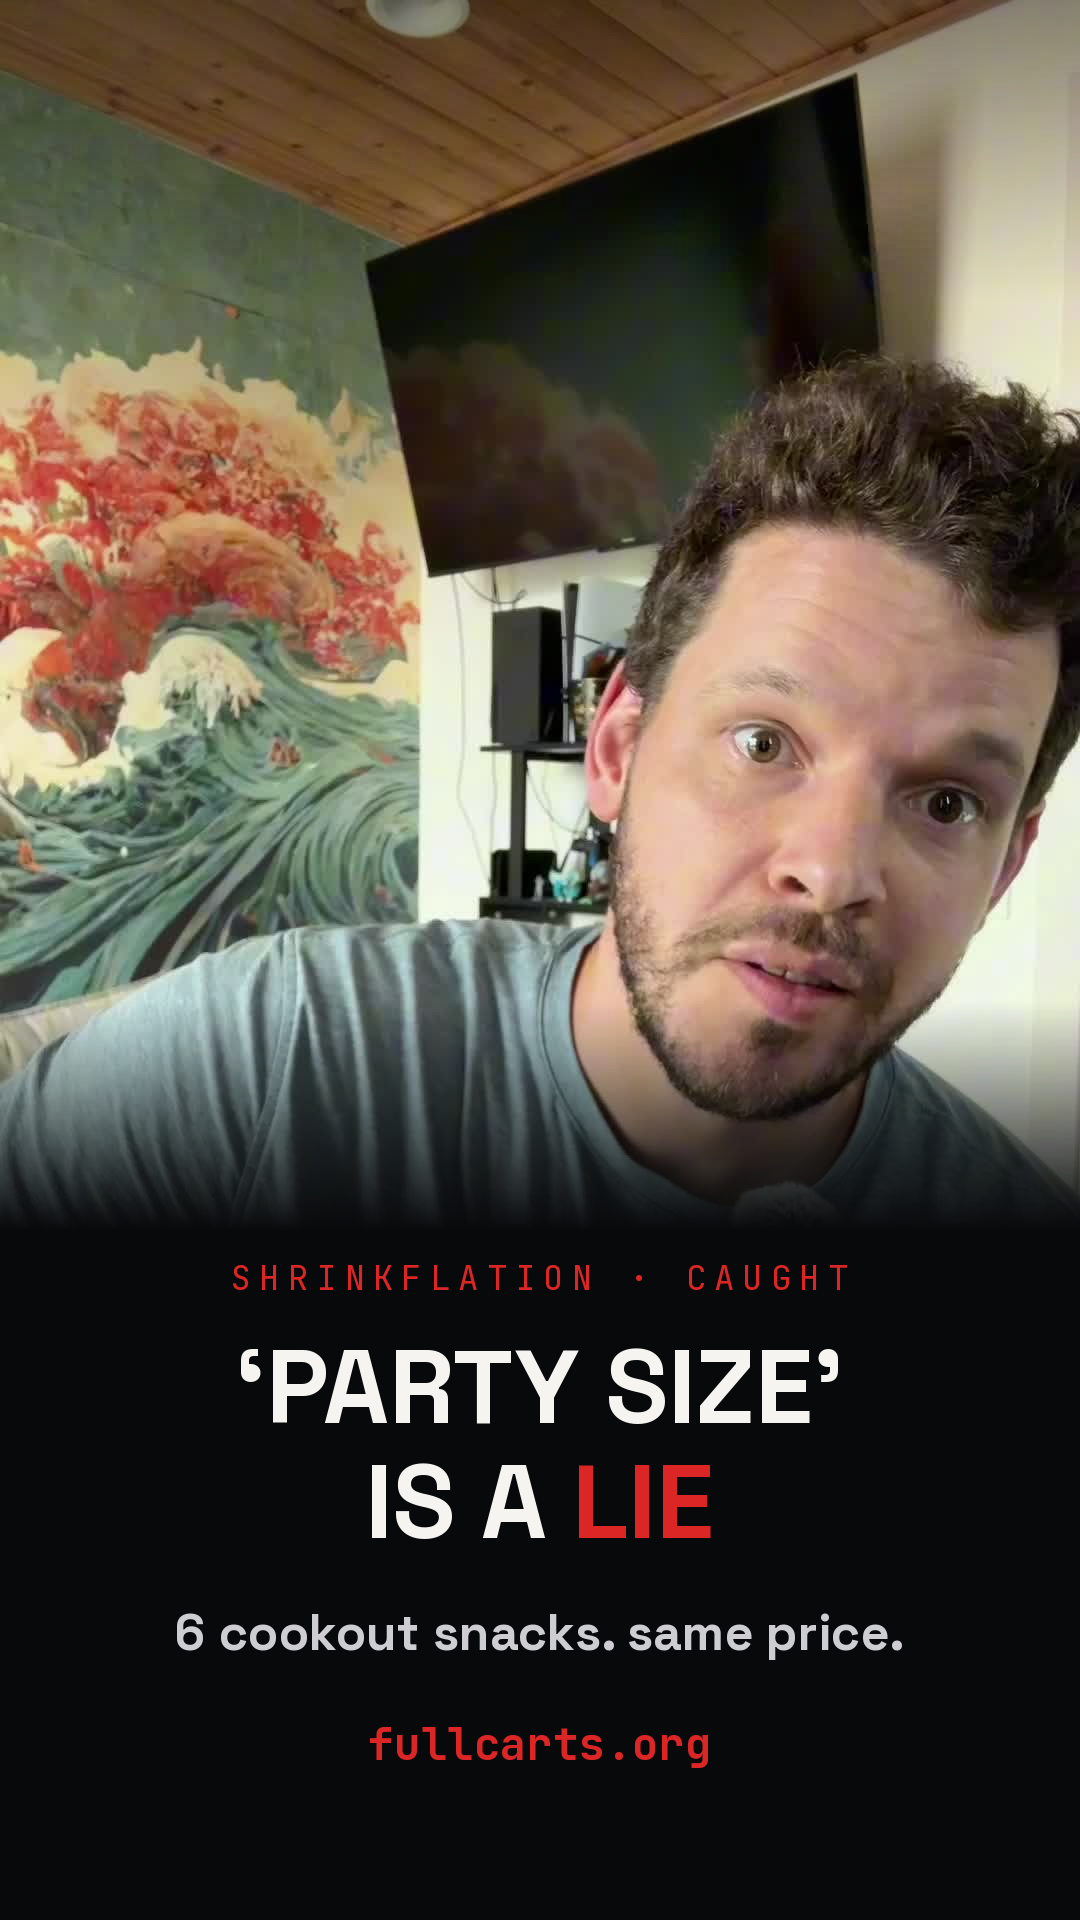
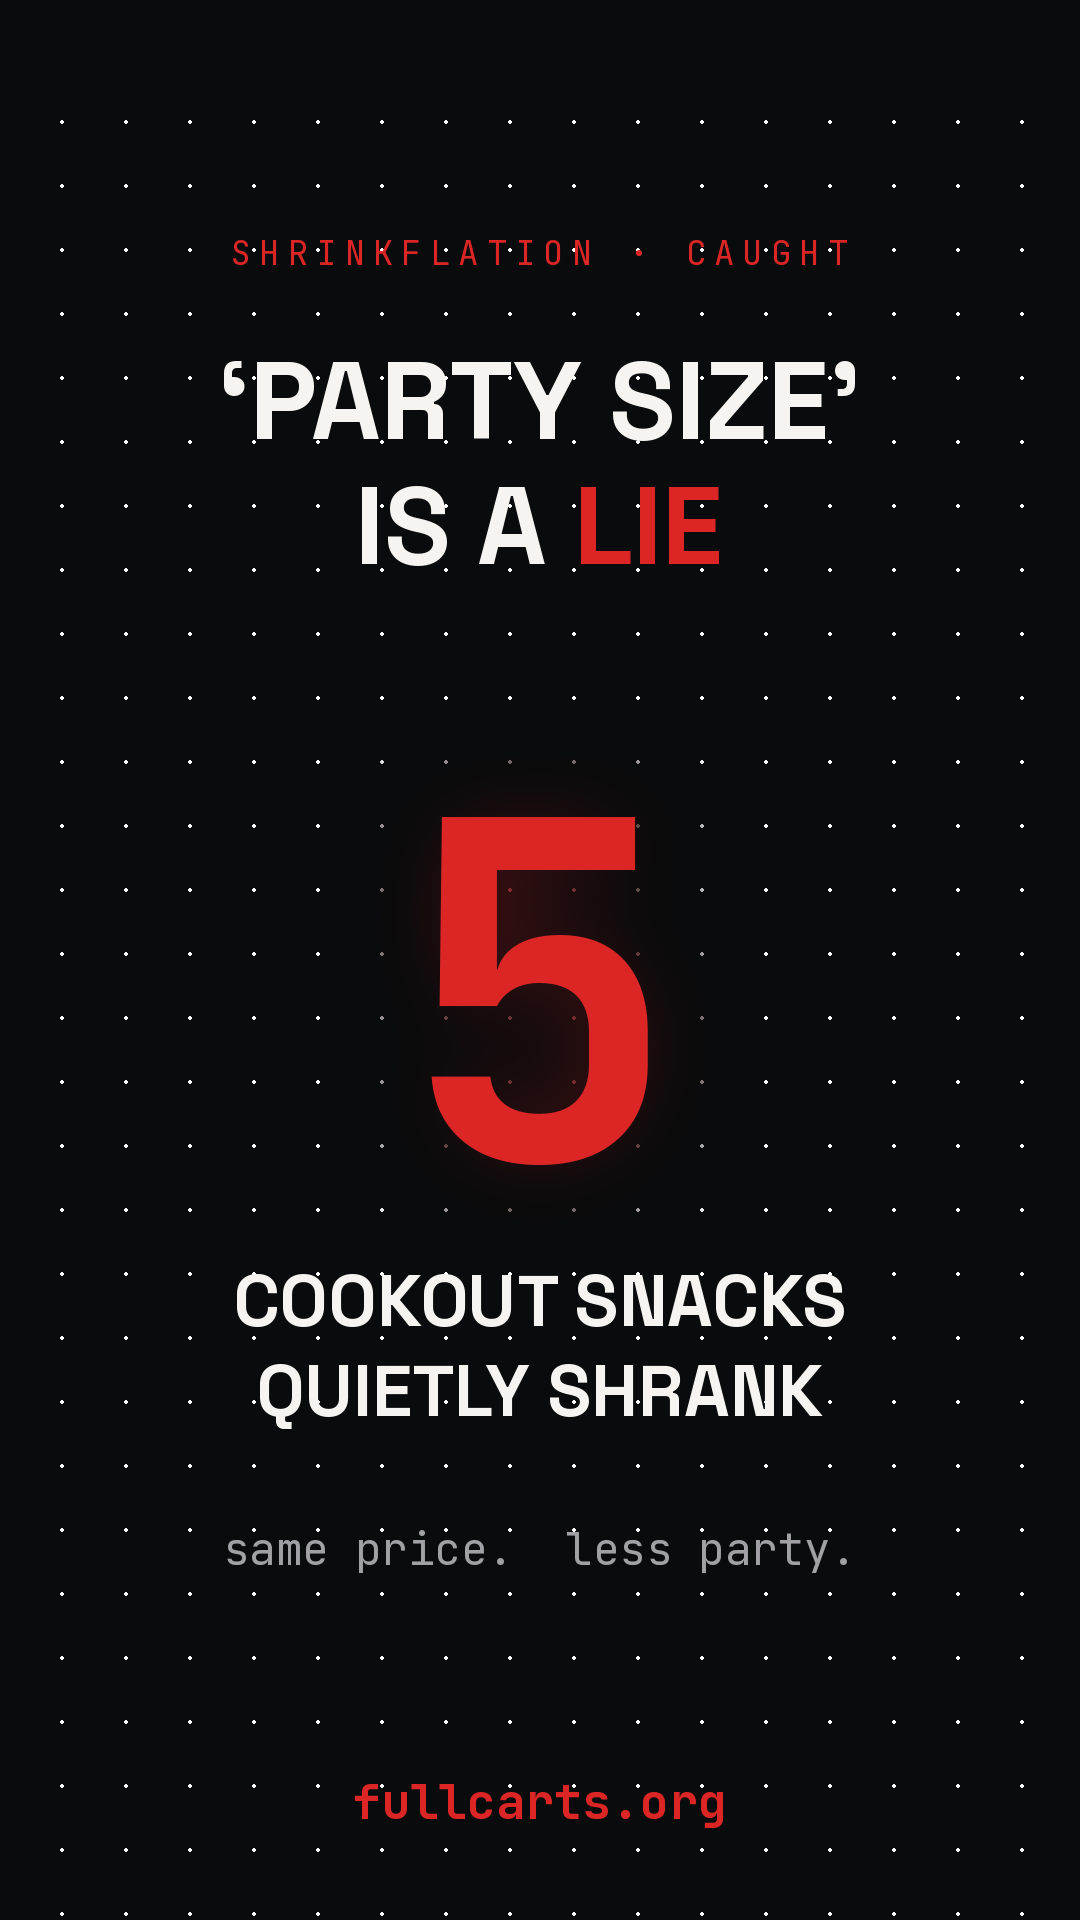
content(video): thumbnail hero '5' + refreshed IG/YT captions (5 items)
https://claude.ai/code/session_01LSYJNSv9k3VYM98LVZrrpU

diff --git a/video/deliverables/captions.md b/video/deliverables/captions.md
@@ -1,0 +1,39 @@
+# 4th of July — "Generosity Tax" — captions (5 items)
+
+## YouTube Short — Title
+'Party Size' Is a Lie 🎆 5 Cookout Snacks That Shrank (Same Price)
+
+## YouTube Shorts — Description
+Five cookout snacks quietly shrank before the 4th — same bags, same shelf price, less inside.
+
+• Chex Mix Party Blend — 15 → 13.5 oz (−10%)
+• Tostitos Hint of Lime — 13 → 11 oz (−15%)
+• Nathan's beef franks — 56 → 43 g per dog (−23%)
+• Honey Maid grahams — 25.6 → 19.2 oz (−25%)
+• Lay's — 235 → 145 g (−38%)
+
+They never shrink what you eat alone — only what you bring for the group. That's the Generosity Tax. It's not you; the cart really is coming up short.
+
+Every change documented + sourced, free, at fullcarts.org. Built by a tired dad who got sick of getting ripped off.
+
+#Shorts #shrinkflation #groceries #4thofjuly #cookout #inflation
+
+## Instagram — Caption
+5 cookout snacks. Same price. Less party. 🎆
+
+Quietly shrunk before the 4th — same bags, smaller inside:
+
+🔻 Chex Mix Party Blend — 15 → 13.5 oz (−10%)
+🔻 Tostitos Hint of Lime — 13 → 11 oz (−15%)
+🔻 Nathan's beef franks — 56 → 43 g per dog (−23%)
+🔻 Honey Maid grahams — 25.6 → 19.2 oz (−25%) … there go your s'mores
+🔻 Lay's — 235 → 145 g (−38%)
+
+Notice the pattern? They never touch what you eat alone — they shrink what you bring for everyone else. Because when you're feeding people, you don't weigh the bag. That's the Generosity Tax.
+
+It's not you. The cart really is coming up short.
+
+Every one is documented + sourced — look any product up, free, at fullcarts.org. 🛒
+(Tired dad, sick of getting ripped off, so I built the receipts.)
+
+#shrinkflation #groceries #4thofjuly #cookout #partysize #inflation #shrinktok #costofliving #foodprices #smores #lays